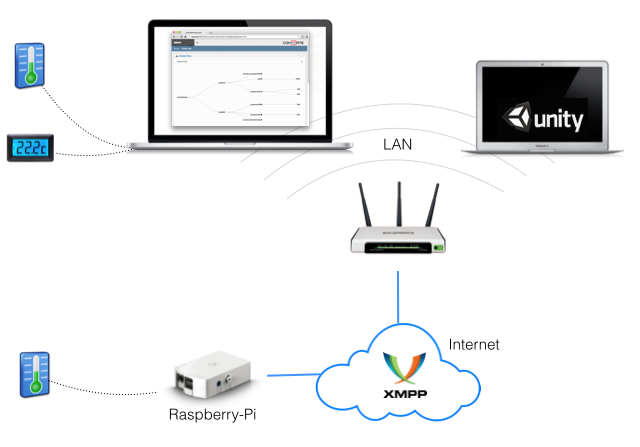
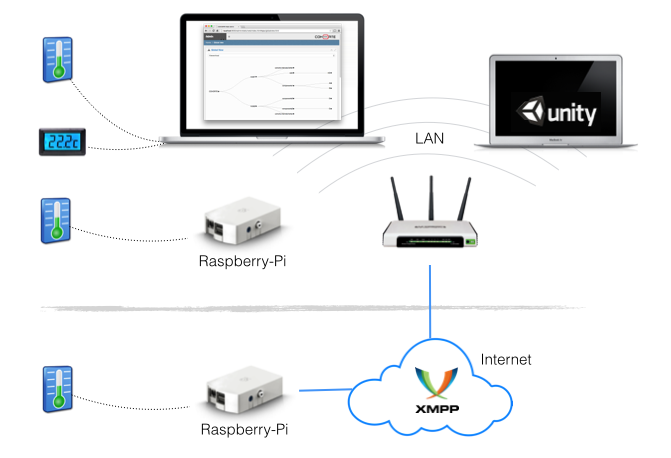
update

diff --git a/docs/1.x/shell/index.md b/docs/1.x/shell/index.md
@@ -11,7 +11,7 @@ next_page: ../monitoring
 
 COHORTE has an integrated shell to allow users manipulate and monitor the system. Here the list of the provided shell commands and their explanation.
 
-## Name space `default` 
+## "default" name space
 
 <table class="table table-striped table-bordered table-hover table-condensed">
 	<thead>
@@ -111,7 +111,7 @@ COHORTE has an integrated shell to allow users manipulate and monitor the system
 </tbody>
 </table>
 
-## Name space `forker`
+## "forker" name space
 
 <table class="table table-striped table-bordered table-hover table-condensed">
 	<thead>
@@ -132,7 +132,7 @@ COHORTE has an integrated shell to allow users manipulate and monitor the system
 </tbody>
 </table>
 
-## Name space `herald`  
+## "herald" name space  
 
 <table class="table table-striped table-bordered table-hover table-condensed">
 	<thead>
@@ -177,7 +177,7 @@ COHORTE has an integrated shell to allow users manipulate and monitor the system
 </tbody>
 </table>
 
-## Name space `ipopo`  
+## "ipopo" name space  
 
 <table class="table table-striped table-bordered table-hover table-condensed">
 	<thead>
@@ -218,7 +218,7 @@ COHORTE has an integrated shell to allow users manipulate and monitor the system
 </tbody>
 </table>
 
-## Name space `node` 
+## "node" name space 
 
 <table class="table table-striped table-bordered table-hover table-condensed">
 	<thead>
@@ -239,7 +239,7 @@ COHORTE has an integrated shell to allow users manipulate and monitor the system
 </tbody>
 </table>
 
-## Name space `shell`
+## "shell" name space
 
 <table class="table table-striped table-bordered table-hover table-condensed">
 	<thead>
@@ -260,7 +260,7 @@ COHORTE has an integrated shell to allow users manipulate and monitor the system
 </tbody>
 </table>
 
-## Name space `top` 
+## "top" name space 
 
 <table class="table table-striped table-bordered table-hover table-condensed">
 	<thead>

diff --git a/docs/1.x/startup/index.md b/docs/1.x/startup/index.md
@@ -237,3 +237,10 @@ The `--xmpp-jid` is the same used by the Top Composer and the other nodes.
 
 You can use the two transport protocols in the same time. At runtime, only one is used, if it does not work COHORTE choose the other one.
 
+<div class="note">
+<span class="note-title">Note</span>
+<p class="note-content">
+Herald, the framework used as discovery and transport layer in COHORTE, has a generic architecture allowing it to add more discovery and transport protocols. Other connection modes are under development and will be released in future version of COHORTE.
+</p>
+</div>
+

diff --git a/docs/1.x/tutorials/temper/index.md b/docs/1.x/tutorials/temper/index.md
@@ -221,6 +221,12 @@ TODO
 
 ### Distributed Application
 
+#### Local Network Area deployment
+
+![local-application](temper-img-6.png)
+
+#### Internet level deployment
+
 ![environment1](temper-img-5.png)
 
 <a name="step3"></a>
